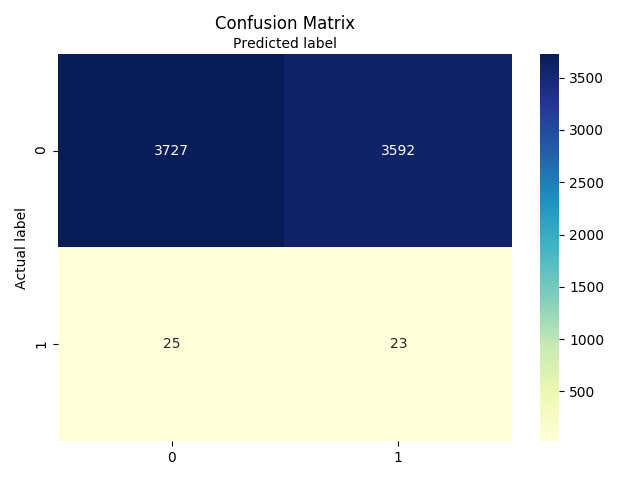
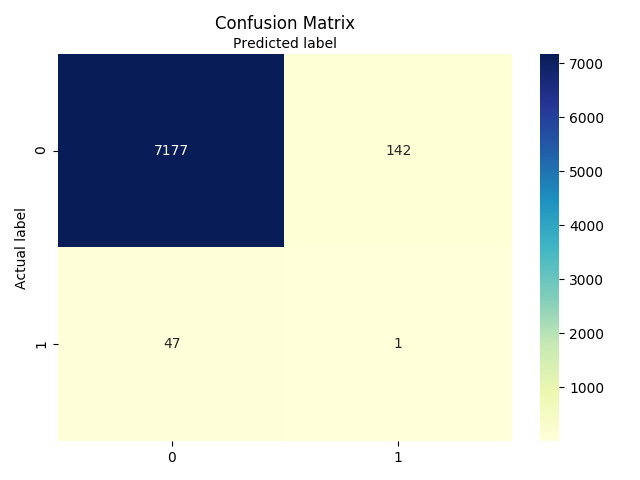
partially implement the code for experiment images

diff --git a/experiments.py b/experiments.py
@@ -1,17 +1,25 @@
-from end_to_end import run_end_to_end
+from end_to_end import get_data_train_predict
 import numpy as np
+import sklearn.metrics as metrics
+import matplotlib.pyplot as plt
 
 
 # for each balancing type, we run the code with different solvers, different thresholds and different ngrams
 def run_experiment_balance_solver(balancing_type, solver):
 
-    thresholds_list = [np.arange(0.05, 1, 0.05)]
+    thresholds_list = [np.arange(0, 1.05, 0.05)]
     print(thresholds_list)
     ngrams_list = [[1, 1], [1, 2], [1, 3], [2, 2], [2, 3], [3, 3]]
 
     for threshold in thresholds_list:
         for ngram in ngrams_list:
-            run_end_to_end(threshold, balancing_type, solver, ngram[0], ngram[1])
+            test_OUTPUT, predicted_OUTPUT, prediction_probs = get_data_train_predict(0.4,
+                                                                                     'sub-sample negatives',
+                                                                                     solver,
+                                                                                     ngram[0],
+                                                                                     ngram[1])
+            plot_evaluation_image(test_OUTPUT, predicted_OUTPUT, prediction_probs, 'sub-sample negatives', solver, ngram[0],
+                                  ngram[1])
 
 
 def run_all_experiments():
@@ -26,4 +34,35 @@ def run_all_experiments():
             run_experiment_balance_solver(balancing_type, solver)
 
 
+def plot_evaluation_image(test_OUTPUT, predicted_OUTPUT, prediction_probs, balancing_type, solver, ngram_min, ngram_max):
+    # recall (true positive rate)
+    print("Recall:", metrics.recall_score(test_OUTPUT, predicted_OUTPUT))
+
+    model_auc = metrics.roc_auc_score(test_OUTPUT, prediction_probs)
+
+    print('Logistic: ROC AUC=%.3f' % model_auc)
+
+    # calculate roc curves
+    model_false_positive_rate, model_true_pos_rate, model_thresholds = metrics.roc_curve(test_OUTPUT, prediction_probs)
+
+    # plot the roc curve for the model
+    plt.plot(model_false_positive_rate, model_true_pos_rate, marker='.', label='Logistic')
+
+    # axis labels
+    plt.xlabel('False Positive Rate')
+    plt.ylabel('True Positive Rate')
+    plt.title('Area Under the ROC Curve')
+    # show the legend
+    plt.legend()
+    plt.tight_layout()
+    # show the plot
+    auc_fig = plt.gcf()
+    auc_fig.tight_layout()
+    plt.show()
+    plt.draw()
+    auc_fig.savefig('plots/auc_plt.png')
+    plt.clf()
+
+
 run_all_experiments()
+

diff --git a/Main.py b/Main.py
@@ -2,26 +2,29 @@
 Main file to run the code. Two options: enter parameters using Gui or set parameters manually
 """
 from Gui import run_gui
-from end_to_end import run_end_to_end
+from end_to_end import get_data_train_predict, plot_evaluation_metrics
 import numpy as np
 
 
 # variable to know if parameters are entered from Gui or manually
 parameters_set_manually = True
 # files to store the experiment results
-sub_sample_neg_results_file = 'experiments/experiment_result_files/sub_sample_neg_results.csv'
-over_sample_pos_results_file = 'experiments/experiment_result_files/over_sample_pos_results.csv'
-smote_results_file = 'experiments/experiment_result_files/smote_results.csv'
+sub_sample_neg_results_file = 'experiments/experiment_result_images/sub_sample_neg_results.csv'
+over_sample_pos_results_file = 'experiments/experiment_result_images/over_sample_pos_results.csv'
+smote_results_file = 'experiments/experiment_result_images/smote_results.csv'
 
 
 if parameters_set_manually:
 
-    threshold = 0.4
+    threshold = 0.6
     balancing_types = ['SMOTE', 'sub-sample negatives', 'over-sample positives']
     solvers = ['newton-cg', 'lbfgs', 'liblinear', 'sag', 'saga']
     ngram_min = 1
     ngram_max = 1
-    run_end_to_end(threshold, balancing_types[1], solvers[0], ngram_min, ngram_max)
+    test_OUTPUT, predicted_OUTPUT, prediction_probs = get_data_train_predict(threshold, balancing_types[1],
+                                                                             solvers[0], ngram_min, ngram_max)
+    # plot confusion_matrix, AUC, print accuracy
+    plot_evaluation_metrics(test_OUTPUT, predicted_OUTPUT, prediction_probs)
 
 else:
     # enter parameters from Gui

diff --git a/end_to_end.py b/end_to_end.py
@@ -20,7 +20,7 @@ from balance_train_data.smote_sample import get_smote_data
 results_on_validation = True
 
 
-def run_end_to_end(threshold, balancing_type, solver, ngram_min, ngram_max):
+def get_data_train_predict(threshold, balancing_type, solver, ngram_min, ngram_max):
     """ Get clean data, call run_model_on_balanced_data function and evaluate the predictions
 
     @param threshold: a float number between 0 and 1, decision threshold parameter
@@ -53,8 +53,8 @@ def run_end_to_end(threshold, balancing_type, solver, ngram_min, ngram_max):
                                                                                      solver,
                                                                                      ngram_min,
                                                                                      ngram_max)
-    # plot confusion_matrix, AUC, print accuracy
-    plot_evaluation_metrics(test.OUTPUT, predicted_OUTPUT, prediction_probs)
+
+    return test.OUTPUT, predicted_OUTPUT, prediction_probs
 
 
 def run_model_on_balanced_data(balancing_type, train, test, threshold, solver, ngram_min, ngram_max):
@@ -124,10 +124,3 @@ def plot_evaluation_metrics(test_OUTPUT, predicted_OUTPUT, prediction_probs):
 
     # illustrate area under the ROC curve
     plot_AUC(test_OUTPUT, prediction_probs)
-
-
-'''
-def append_results_file(filedir, threshold, solver, ngram_min, ngram_max):
-    with open(filedir, 'a') as fd:
-        fd.write()
-'''

diff --git a/Gui.py b/Gui.py
@@ -6,7 +6,7 @@ and plotting the prediction results
 from tkinter import *
 from tkinter.ttk import *
 global threshold, balancing_type, solver, ngram_start, ngram_end
-from end_to_end import run_end_to_end
+from end_to_end import get_data_train_predict, plot_evaluation_metrics
 #from PIL import ImageTk, Image
 
 global threshold, data_balancing_type, solver, ngram_start, ngram_end
@@ -32,8 +32,13 @@ def run_gui():
 
 def clicked():
 
-    run_end_to_end(float(threshold.get()), data_balancing_type.get(), solver.get(),
-                   int(ngram_min.get()), int(ngram_max.get()))
+    test_OUTPUT, predicted_OUTPUT, prediction_probs = get_data_train_predict(float(threshold.get()),
+                                                                             data_balancing_type.get(),
+                                                                             solver.get(),
+                                                                             int(ngram_min.get()),
+                                                                             int(ngram_max.get()))
+    # plot confusion_matrix, AUC, print accuracy
+    plot_evaluation_metrics(test_OUTPUT, predicted_OUTPUT, prediction_probs)
 
     # show_output_images(window)
 
